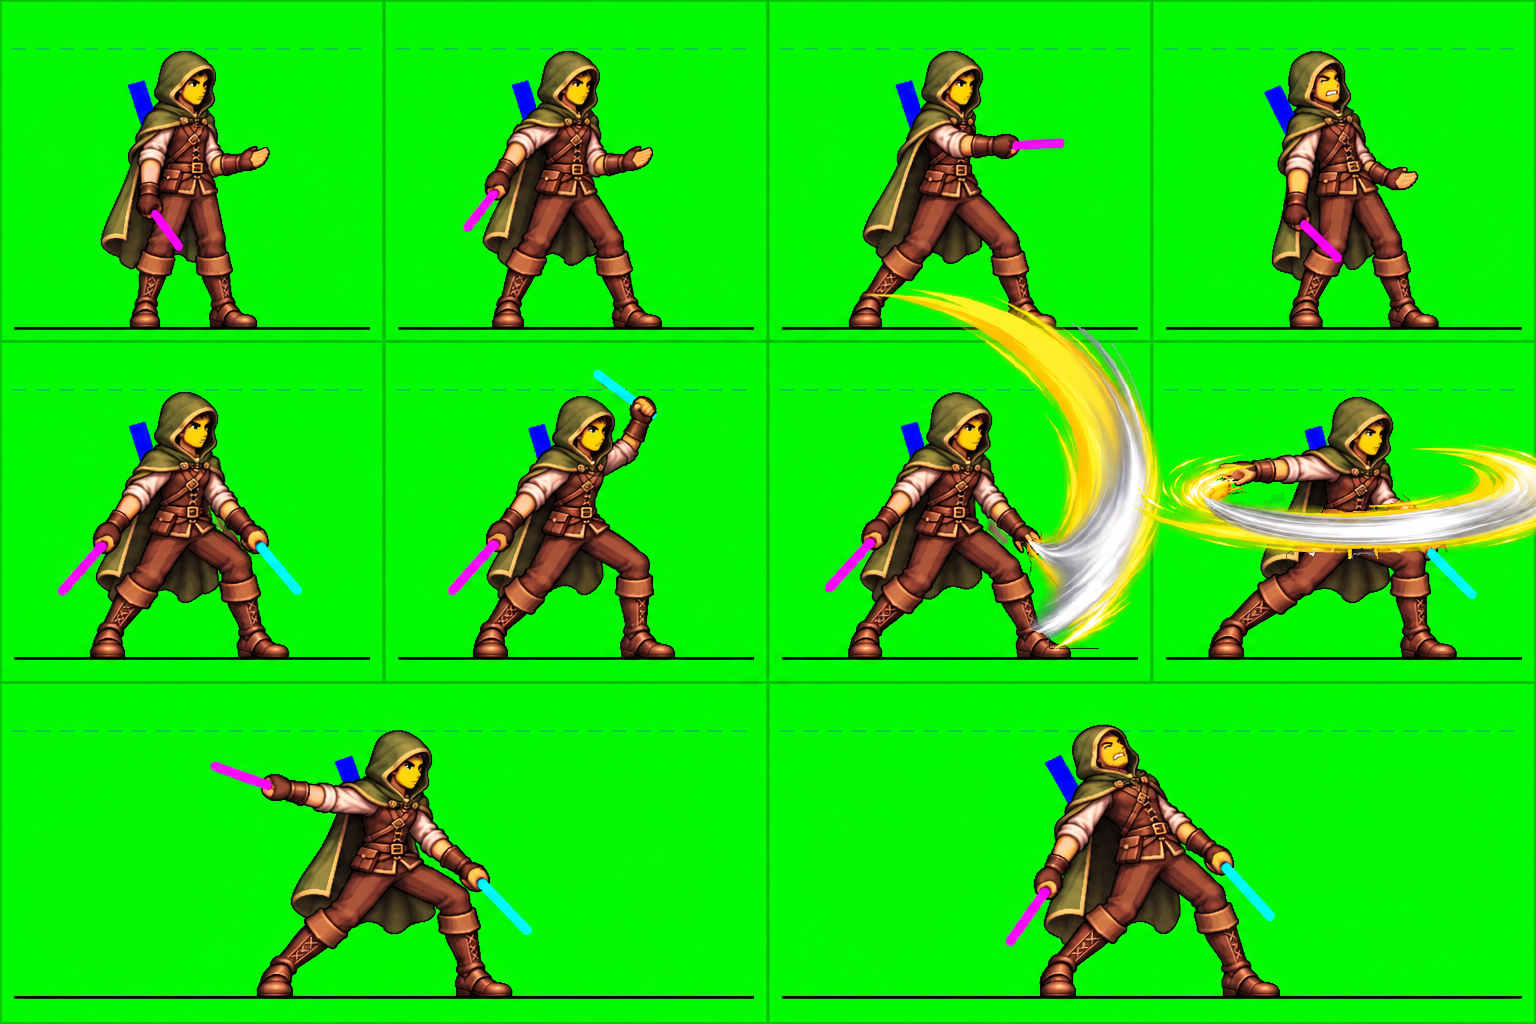
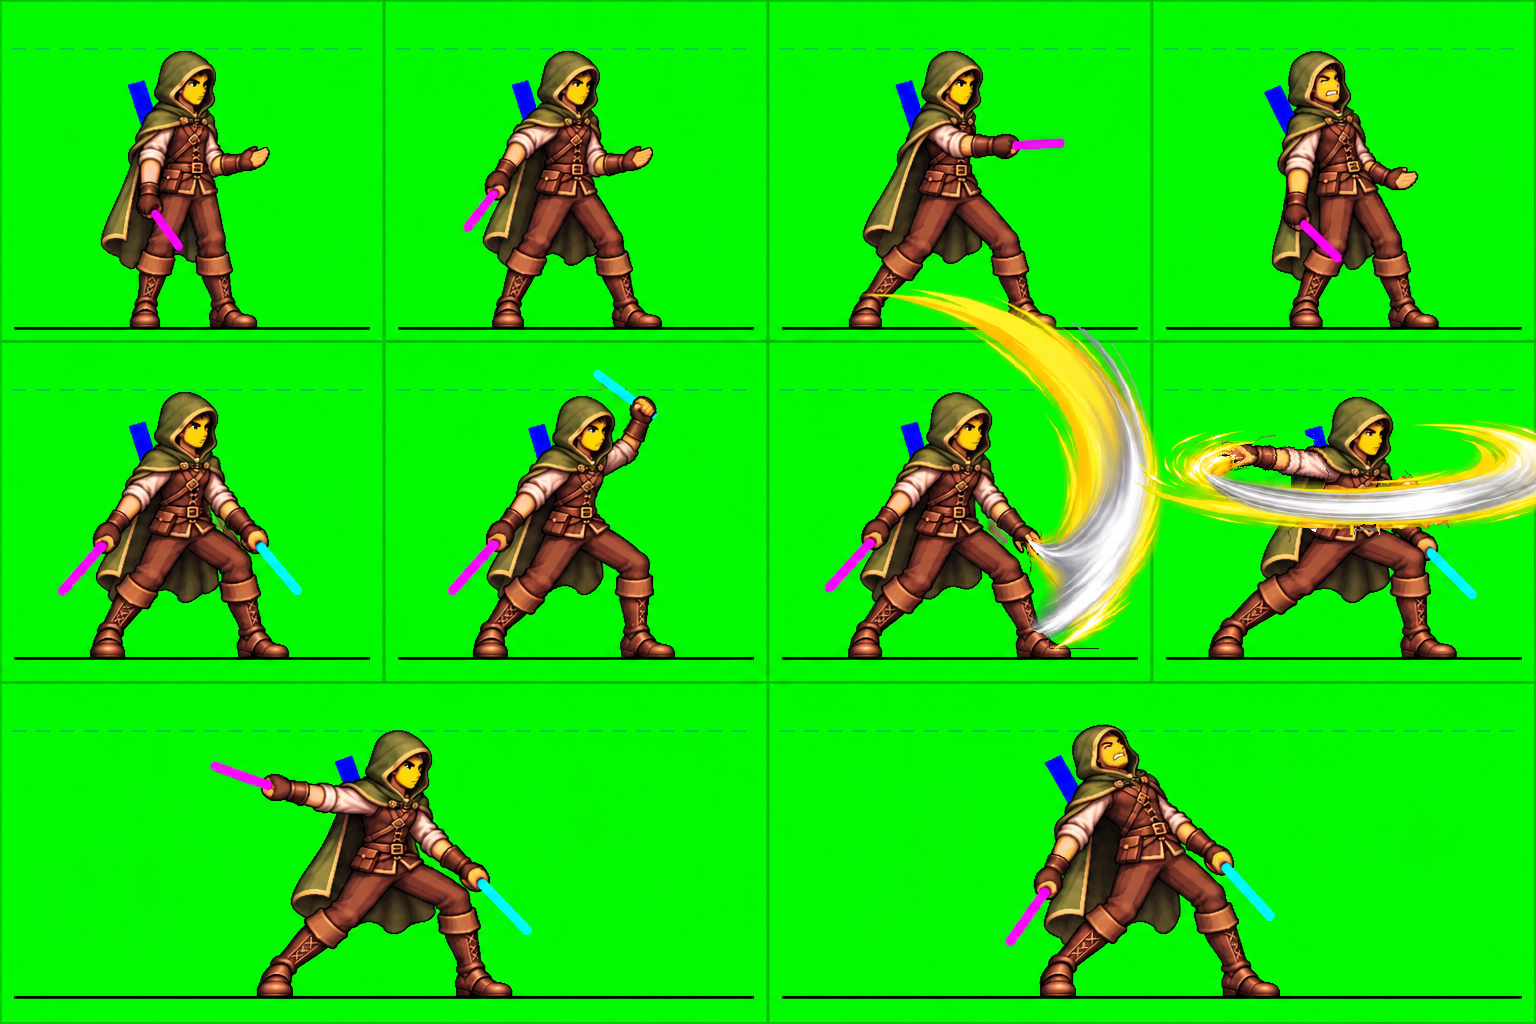
Archer slash 2: near arm raised to the finish angle (empty hand), sweep follows
Claude-Session: https://claude.ai/code/session_01M8ejkLTav7LEMdtajuWjkN

Changed region(s): [[0.75, 0.4062, 1.0, 0.5625]]

diff --git a/art_source/new_art/battle/tools/archer_fix_slash2_arm.py b/art_source/new_art/battle/tools/archer_fix_slash2_arm.py
@@ -1,0 +1,38 @@
+"""Archer slash 2 (user, 2026-11-25): the near arm must be raised at the same angle as in FINISH, only without the stick.
+Rotates the near arm (with its open hand) of the dagger sheet's slash 2 cell about the shoulder. Works on the ChatGPT
+original (source/concepts/archer_dagger_m_sheet_gpt_raw.png) and writes source/archer_dagger_m_sheet.png."""
+import os, math, numpy as np
+from PIL import Image, ImageDraw
+from scipy import ndimage as ndi
+HERE = os.path.dirname(os.path.dirname(os.path.abspath(__file__)))
+a = np.asarray(Image.open(os.path.join(HERE, 'source', 'concepts', 'archer_dagger_m_sheet_gpt_raw.png')).convert('RGB')).copy()
+r, g, b = [a[..., i].astype(int) for i in range(3)]
+green = (g - r > 60) & (g - b > 60)
+PIV = np.array([1328.0, 468.0])                 # near shoulder
+DEG = 12.0                                      # raise the arm (finish arm ~13 deg above horizontal, slash 2 ~1 deg)
+pm = Image.new('L', (a.shape[1], a.shape[0]), 0)
+ImageDraw.Draw(pm).polygon([(1164, 434), (1300, 432), (1318, 442), (1330, 452), (1330, 492), (1300, 494), (1240, 492), (1164, 488)], fill=1)
+arm = (np.asarray(pm) > 0) & ~green
+t = math.radians(DEG); yy, xx = np.mgrid[:a.shape[0], :a.shape[1]]
+# inverse map: a destination pixel takes the source pixel rotated back (arm tip pointing left goes up)
+dx, dy = xx - PIV[0], yy - PIV[1]
+sx = np.rint(PIV[0] + dx * math.cos(t) + dy * math.sin(t)).astype(int).clip(0, a.shape[1] - 1)
+sy = np.rint(PIV[1] - dx * math.sin(t) + dy * math.cos(t)).astype(int).clip(0, a.shape[0] - 1)
+new = arm[sy, sx]; newc = a[sy, sx]
+out = a.copy()
+old = arm & ~new
+behind = (np.asarray(pm) > 0) & ~new & (xx > 1290) & (yy > 470)                                 # near the shoulder: fill from the body around it
+body = ~green & ~arm
+iy, ix = ndi.distance_transform_edt(~body, return_distances=False, return_indices=True)
+out[behind] = a[iy[behind], ix[behind]]
+poly = np.asarray(pm) > 0
+out[poly & ~new & ~behind] = (0, 255, 0)                    # incl. the soft green-tinted edge pixels
+out[new] = newc[new]
+# drop loose specks left in the air around the arm
+fig = ~((out[..., 1].astype(int) - out[..., 0] > 60) & (out[..., 1].astype(int) - out[..., 2] > 60))
+zone = np.zeros_like(fig); zone[420:510, 1155:1300] = True
+lab, n = ndi.label(fig & zone, np.ones((3, 3))); sz = ndi.sum(fig & zone, lab, range(1, n + 1))
+for i, z in enumerate(sz):
+    if z < 60: out[lab == i + 1] = (0, 255, 0)
+Image.fromarray(out).save(os.path.join(HERE, 'source', 'archer_dagger_m_sheet.png'))
+print('done')

diff --git a/art_source/new_art/battle/tools/reuse_slash_fx.py b/art_source/new_art/battle/tools/reuse_slash_fx.py
@@ -13,7 +13,8 @@ import make_refs as M
 
 
 # hand-placed corrections after the feet alignment, in target-cell px (the smear must start at the swinging hand)
-NUDGE = {('archer', 'm', 'slash_left'): (-28, -8)}   # user, 2026-11-25: "on pose 7, move slash to match the hands"
+NUDGE = {('archer', 'm', 'slash_left'): (-28, -8),
+         ('archer', 'm', 'slash_right'): (2, -24)}   # the arm was raised 12 deg to the finish angle (archer_fix_slash2_arm.py)   # user, 2026-11-25: "on pose 7, move slash to match the hands"
 
 
 def figure(cell):

diff --git a/docs/design-decisions.md b/docs/design-decisions.md
@@ -30,7 +30,7 @@ Archer and Mage melee weapons limited to **light** weapons on 2026-11-16 (user: 
 
 **Shields (user, 2026-11-20): each class has its own shield shape** — Soldier = **square** shield, Acolyte and Warrior = **round** shield (the Warrior could not use shields before; this adds it), **kite shield = reserved for a future Knight class**. A one-handed weapon **without** a shield uses the **dual-weapon stance** (left hand empty) in battle sprites. **The shield look is fixed per class** (user, 2026-11-20): shield equipment comes in broad categories (**light shield, heavy shield, tower shield**) that change the rules only; the sprite and the shield stance always show the class's own shield. Shield categories are not in the weapon sheet yet. **Headgear (user, 2026-11-20): battle sprites wear class headgear, portraits never do.** It is drawn into the sprite body by ChatGPT, so battle sprites have **no hair layer** (the portrait-hair sample is dropped for helmeted classes, `HEADGEAR` in `process_battle.py`). **Soldier final design** (`source/concepts/soldier_final_design.png`): plain open-face **barbute helm** (no crest, gold or emblem), simple silver plate armour, blue scarf and tabard, brown leather belt and gloves; the face is the only skin (yellow key). Soldier v3 prompt in `PROMPTS.md` (4 rows: square shield, dual, two-handed, spear), ~6 heads tall including the helmet. Helmet variations and faction colours on that sheet are not used. **Hair under the helmet (user, 2026-11-20):** ChatGPT draws a long-hair ponytail behind the neck in shades of **pure red** (never covering the body); `process_battle.py` cuts it into a hair value-map layer tinted with the hero's hair ramp and shows it **only for long portrait hairstyles** (`art_source/new_art/battle/hair_length.json`: male ponytail, long, wild_mane; female long, ponytail, braids, wavy, side_braid, curly_mane, warrior_halfup; buns/topknots/crown braids count as short). Both sexes get the piece. **Four sprites per stance (user, 2026-11-20, extends the three-sprite rule):** STAND | **READY** (the wind-up a moment before the attack) | ATTACK | GET HIT; the **dual row** is STAND | **ATTACK 1 (main hand)** | **ATTACK 2 (off-hand)** | GET HIT, because dual wield hits twice. Playback: stand → ready → attack → stand (dual: stand → attack 1 → attack 2 → stand); one weapon in the dual stance uses only attack 1. Soldier template is now 4 × 4 (`make_refs.py` `CLASS_STATES`), prompt v5 in `PROMPTS.md`. **Hand convention (corrected 2026-11-20):** in right-facing sprites the character's **LEFT arm is the lead arm** (right side of the picture, the shield arm) and the **RIGHT arm is the rear arm**; magenta (main weapon) is always in the right/rear hand, cyan in the left/lead hand, and the main-hand attack swings the rear arm forward across the body. An earlier prompt rule ("right hand leading on the right of the picture") was wrong and made ChatGPT draw both dual attacks with the left arm; the v5 male sheet's dual stand/hit are swapped back in code (`SWAP_HANDS`) and its ATTACK 1 needs the edit prompt in `PROMPTS.md`. **Dual weapons get their own sheet (user's dual-slash concept, 2026-11-21):** stand → ready (front/cyan arm winds up) → slash 1 (cyan chops down) → slash 2 (magenta sweeps across) → finish (magenta follow-through) → plus get hit; template `soldier_dual_template.png` (2 × 3), prompt names the arms only by rod colour (front arm = cyan, back arm = magenta), never left/right. Main Soldier sheet is now 3 rows × 4 (shield, two-handed, spear). One weapon without shield plays stand → slash 2 → finish from the magenta hand. The off-hand (cyan) hit shows first, the main hand second. **Slash waves (user, 2026-11-21):** in slash 1 the cyan weapon is hidden behind a slash wave (a chop arc from overhead down to the front foot), in slash 2 the magenta weapon is hidden behind a waist-level sweep wave; both weapons show again in finish (`SLASH_HIDE` / `slash_wave()` in `process_battle.py`). **Male dual sheet hand-fixed (2026-11-21):** ChatGPT kept putting the cyan rod on the near arm in slash 1 and swinging the main arm forward in slash 2 / finish, so those cells were rebuilt in code from the sheet's own parts (raw sheet in `source/concepts/soldier_dual_m_gpt_raw.png`); the near arm (big pauldron over the chest, left of the picture) always holds magenta. `SWAP_HANDS` is now empty. **Slash frames = drawn arc + weapon smear (user, 2026-11-21):** the user drew slash 1 and slash 2 in Gemini with a yellow slash arc and a grey **weapon smear** that does not show which weapon was swung (any one-handed weapon fits; a code-drawn motion-blurred sword was rejected as bad design and removed). Gemini then put them into the dual sheet (`source/concepts/soldier_dual_<sex>_sheet_gemini_smear.png`); `tools/green_fx_split.py` lifts the arc and smear off the green into a soft-alpha effect layer (`source/soldier_dual_<sex>_fx.png`) so their yellow never reaches the skin key, and fills the body hidden under the waist sweep. In those frames the swinging hand's weapon is not drawn (the smear stands for it); the other hand's weapon is drawn as usual; fists hidden under the smear are given in `source/soldier_dual_<sex>_grips.json`. `slash_wave()` in code remains the fallback for sheets without a drawn effect. **Female Soldier done (2026-11-21):** both female sheets are Gemini edits of the finished male sheets (main 4 × 4 v5 layout, `SHEET_ROWS` for both sexes; dual with the drawn effects); edit-the-finished-sheet is the method that avoided the arm/hand mistakes. **Metallic armour (user, 2026-11-21):** the AI sheets shade the Soldier's plate with a rosy tint, which read as red armour; `process_battle.py` `to_steel()` (classes in `METAL_ARMOUR`) turns rosy greys into cool steel of the same brightness and the maroon padding between plates into dark steel mail, leaving blue cloth, brown leather, gold trim, hair and skin alone. Applies to every Soldier layer, both sexes. **Downed sprite (user, 2026-11-24):** one downed pose per sex shared by every Soldier loadout (kneeling on both knees, head hanging, empty hands on the ground; no weapon or shield). ChatGPT drew it on `templates/soldier_downed_template.png` (the finished stand figures in the bottom row as reference); `process_battle.py` `process_downed()` scales it from those stand figures and writes `sprites/soldier_<sex>_<loadout>_downed.png` for every loadout. The game export still shows downed as the greyed hit frame until it picks up the new `downed` state. **Dual row:** the first helmet sheets drew the dual stand facing the viewer and the attack side-on, so the weapon seemed to change hands; the Soldier v4 prompt keeps the right hand leading on the right of the figure in all three poses.
 
-**Archer battle sprites (2026-11-24/25):** design sheet by ChatGPT (`source/concepts/archer_design.png`), **hood up** (user's headgear choice), so the hood hides the hair (no hair key) and the face is the only skin. Poses come from **mannequin pose drafts drawn in code** (`tools/archer_pose_draft.py`, `refs/archer_*pose_draft.png`): NEAR arm darker in front, FAR arm lighter behind, sticks in the right hands. Two sheets: **main = bow + crossbow, done** (`source/archer_m_sheet.png`, ChatGPT from the 2 × 4 pose draft, 2026-11-25): bow row stand | nock | release | hit (bow = cyan stick in the far hand, arrow = magenta line), crossbow row stand | aim | release | hit (one magenta stock in both fists). **Dagger sheet** (user, 2026-11-25: one ChatGPT task, "combine 1 handed you design and old dual weapon pose"), 4 × 3: row 1 = **one dagger** stand | ready | attack | hit (off-hand open and empty - for the Archer this replaces the one-weapon-uses-the-dual-stance rule); rows 2-3 = **dual daggers with the Soldier's dual poses** (stand | ready | slash 1 | slash 2 | finish | hit), the pose sheet shows the Soldier's finished dual figures, so the Soldier's drawn slash arc/smear can be reused: **done for the male** (2026-11-25, user: slash 1 and 2 were missing the wave) with `tools/reuse_slash_fx.py` - the Soldier's effect cell scaled by the stand-height ratio and placed on the Archer's feet, saved whole (arcs reach past the cell) as `source/archer_dagger_m_fx/<state>.png` + `offsets.json`; preview `review_archer_dagger_fx.png`. Male dagger sheet = `source/archer_dagger_m_sheet.png` (ChatGPT). **Archer downed sprite** (2026-11-25): ChatGPT on `templates/archer_downed_template.png` (bottom row = male bow stand, female from the design sheet; pose copied from the Soldier's downed sheet) -> `source/archer_downed_sheet.png`, both sexes, kneeling, hood up, empty hands, blue quiver marker. **Combined male sheet** (user, 2026-11-25): `tools/combine_archer_sheet.py` puts all 19 male poses at one scale on `source/archer_m_all_sheet.png` (1536 × 3160; rows: bow | crossbow | one dagger | dual stand, ready + downed | dual slash 1, slash 2 in wide cells of a taller row **with the slash arc + smear drawn on** (user, 2026-11-25) | dual finish, hit), cell map in `archer_m_all_layout.json`. Note: every Archer sheet shows a little brown fringe of hair under the hood; it stays a fixed brown (not keyed to the hero's hair colour). The blue back marker stands for the quiver **or** the bolt case (same back slot; the game shows whichever ammunition is equipped). Not yet built into sprites: `process_battle.py` needs Archer loadouts (bow as a cyan stick, a code-drawn crossbow, the blue quiver marker cut out and replaced by the quiver layer). Male first by ChatGPT, female as Gemini edits of the finished male sheets.
+**Archer battle sprites (2026-11-24/25):** design sheet by ChatGPT (`source/concepts/archer_design.png`), **hood up** (user's headgear choice), so the hood hides the hair (no hair key) and the face is the only skin. Poses come from **mannequin pose drafts drawn in code** (`tools/archer_pose_draft.py`, `refs/archer_*pose_draft.png`): NEAR arm darker in front, FAR arm lighter behind, sticks in the right hands. Two sheets: **main = bow + crossbow, done** (`source/archer_m_sheet.png`, ChatGPT from the 2 × 4 pose draft, 2026-11-25): bow row stand | nock | release | hit (bow = cyan stick in the far hand, arrow = magenta line), crossbow row stand | aim | release | hit (one magenta stock in both fists). **Dagger sheet** (user, 2026-11-25: one ChatGPT task, "combine 1 handed you design and old dual weapon pose"), 4 × 3: row 1 = **one dagger** stand | ready | attack | hit (off-hand open and empty - for the Archer this replaces the one-weapon-uses-the-dual-stance rule); rows 2-3 = **dual daggers with the Soldier's dual poses** (stand | ready | slash 1 | slash 2 | finish | hit), the pose sheet shows the Soldier's finished dual figures, so the Soldier's drawn slash arc/smear can be reused: **done for the male** (2026-11-25, user: slash 1 and 2 were missing the wave) with `tools/reuse_slash_fx.py` - the Soldier's effect cell scaled by the stand-height ratio and placed on the Archer's feet, saved whole (arcs reach past the cell) as `source/archer_dagger_m_fx/<state>.png` + `offsets.json`; preview `review_archer_dagger_fx.png`. Male dagger sheet = `source/archer_dagger_m_sheet.png` (ChatGPT original kept in `source/concepts/archer_dagger_m_sheet_gpt_raw.png`; **slash 2's near arm raised 12° to the FINISH angle, hand empty** - user, 2026-11-25 - by `tools/archer_fix_slash2_arm.py`, and the sweep moved up with it). **Archer downed sprite** (2026-11-25): ChatGPT on `templates/archer_downed_template.png` (bottom row = male bow stand, female from the design sheet; pose copied from the Soldier's downed sheet) -> `source/archer_downed_sheet.png`, both sexes, kneeling, hood up, empty hands, blue quiver marker. **Combined male sheet** (user, 2026-11-25): `tools/combine_archer_sheet.py` puts all 19 male poses at one scale on `source/archer_m_all_sheet.png` (1536 × 3160; rows: bow | crossbow | one dagger | dual stand, ready + downed | dual slash 1, slash 2 in wide cells of a taller row **with the slash arc + smear drawn on** (user, 2026-11-25) | dual finish, hit), cell map in `archer_m_all_layout.json`. Note: every Archer sheet shows a little brown fringe of hair under the hood; it stays a fixed brown (not keyed to the hero's hair colour). The blue back marker stands for the quiver **or** the bolt case (same back slot; the game shows whichever ammunition is equipped). Not yet built into sprites: `process_battle.py` needs Archer loadouts (bow as a cyan stick, a code-drawn crossbow, the blue quiver marker cut out and replaced by the quiver layer). Male first by ChatGPT, female as Gemini edits of the finished male sheets.
 
 **Warrior look (user, 2026-11-18): a barbarian, but armored** — can wear up to medium armor, so leather and chain or scale over a barbarian build (furs, leather harness), not the old Brawler's sleeveless tunic. Exact outfit to be drawn with the new art. Legacy battle-sprite and portrait files keep the name `brawler` (they are the old look and reference only).
 
